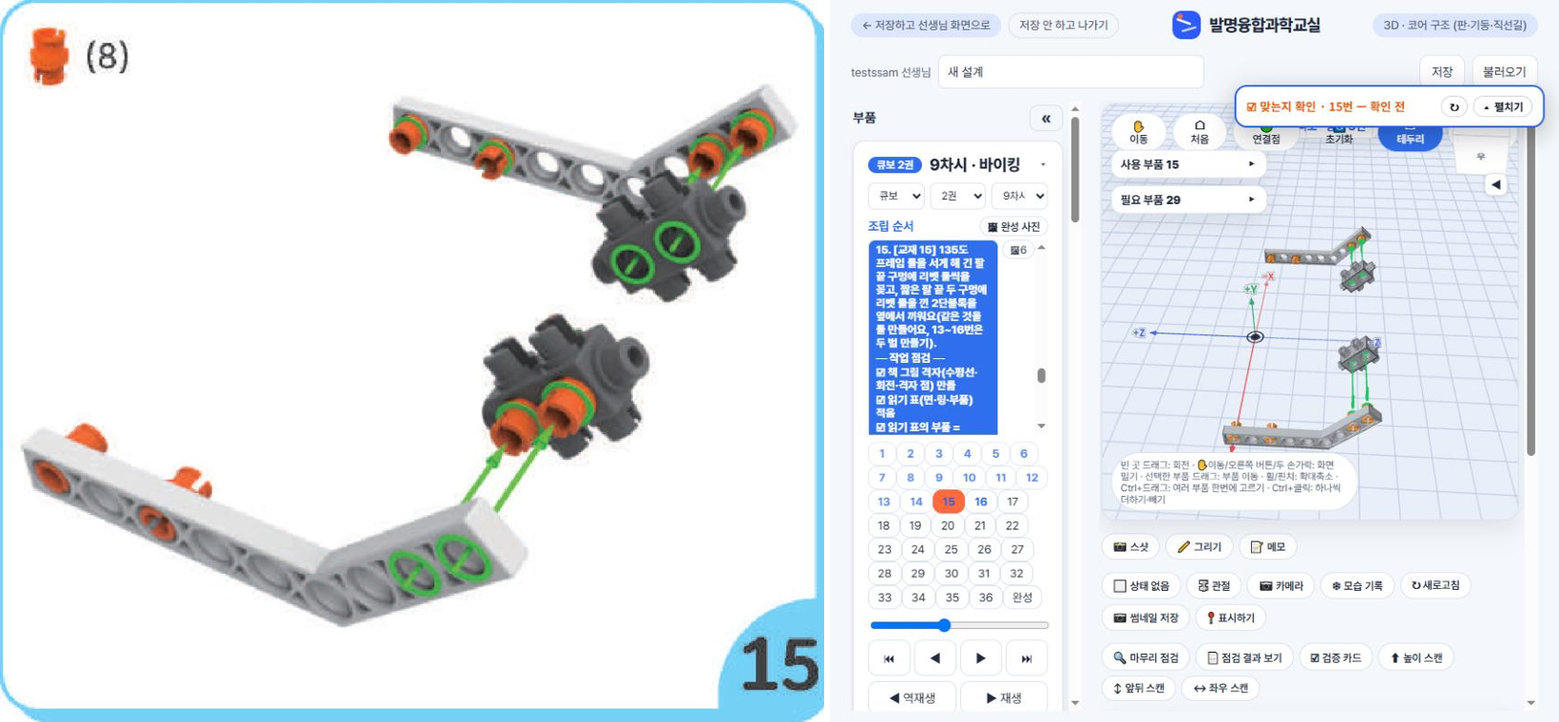
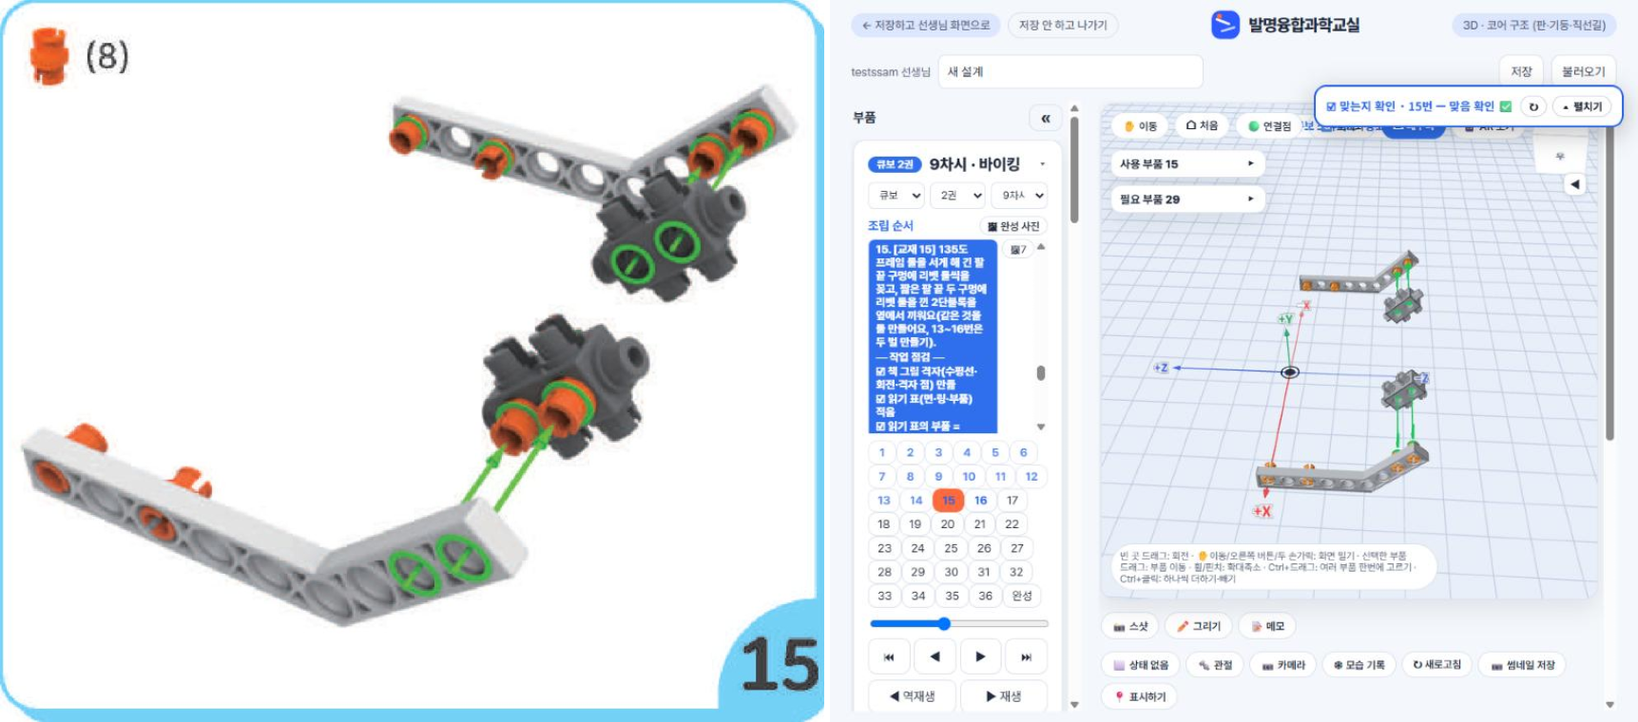
바이킹 16번 화살표 수정·13~16번 둘째 벌 복사, 참고 그림 창 이동 기능
- viking 15번 팔 리벳에 moveGuide: 16번에서 화살표 0개 → 4개(책과 같음)
- 13~16번 둘째 벌 copy_to_slot(창고 4, until 18)
- 15·16번 비교 증거 새로 기록, 진행기록 갱신
- design-assembly.js: 그림 창 제목 줄을 끌어 이동

diff --git a/public/design-warnings.js b/public/design-warnings.js
@@ -1,2 +1,2 @@
 // 자동 생성 — scripts/assembly-tools/insertion_check.js (직접 고치지 않는다)
-window.IVS_ASM_WARNINGS = {"cubo-1-airplane":{"3":[{"key":"3.1|작은기어|315프레임(1.0),90도 프레임(1.3)","part":"작은기어","text":"작은기어(3.1)이(가) 315프레임(1.0), 90도 프레임(1.3) 와 겹쳐 있어요"},{"key":"3.3|부시|315프레임(1.0),90도 프레임(1.3)","part":"부시","text":"부시(3.3)이(가) 315프레임(1.0), 90도 프레임(1.3) 와 겹쳐 있어요"}],"5":[{"key":"5.1|부시|90도 프레임(4.3)","part":"부시","text":"부시(5.1)이(가) 90도 프레임(4.3) 와 겹쳐 있어요"}]},"cubo-1-autogun":{},"cubo-2-autotarget":{"8":[{"key":"8.0|3단블록|작은기어(6.1),부시(6.2)","part":"3단블록","text":"3단블록(8.0)이(가) 작은기어(6.1), 부시(6.2) 와 겹쳐 있어요"},{"key":"8.1|3단블록|작은기어(6.1),부시(6.2)","part":"3단블록","text":"3단블록(8.1)이(가) 작은기어(6.1), 부시(6.2) 와 겹쳐 있어요"},{"key":"8.2|17프레임|작은기어(6.1),부시(6.2)","part":"17프레임","text":"17프레임(8.2)이(가) 작은기어(6.1), 부시(6.2) 와 겹쳐 있어요"}],"52":[{"key":"52.2|37프레임|15프레임(8.3)","part":"37프레임","text":"37프레임(52.2)이(가) 15프레임(8.3) 와 겹쳐 있어요"}]},"cubo-2-avoider":{},"cubo-2-battlerobot":{"30":[{"key":"30.8|515프레임|59프레임(27.2)","part":"515프레임","text":"515프레임(30.8)이(가) 59프레임(27.2) 와 겹쳐 있어요"}],"31":[{"key":"31.6|515프레임|59프레임(27.2)","part":"515프레임","text":"515프레임(31.6)이(가) 59프레임(27.2) 와 겹쳐 있어요"}],"33":[{"key":"33.0|17프레임|59프레임(27.2)","part":"17프레임","text":"17프레임(33.0)이(가) 59프레임(27.2) 와 겹쳐 있어요"},{"key":"33.1|17프레임|59프레임(27.2)","part":"17프레임","text":"17프레임(33.1)이(가) 59프레임(27.2) 와 겹쳐 있어요"},{"key":"33.6|39프레임|59프레임(27.2)","part":"39프레임","text":"39프레임(33.6)이(가) 59프레임(27.2) 와 겹쳐 있어요"}],"34":[{"key":"34.4|713프레임|515프레임(30.8)","part":"713프레임","text":"713프레임(34.4)이(가) 515프레임(30.8) 와 겹쳐 있어요"}]},"cubo-1-battlerobot":{},"cubo-2-catapult":{"2":[{"key":"2.0|713프레임|27프레임(1.0),27프레임(1.1)","part":"713프레임","text":"713프레임(2.0)이(가) 27프레임(1.0), 27프레임(1.1) 와 겹쳐 있어요"}],"4":[{"key":"4.3|부시|27프레임(1.0),3단블록(1.2)","part":"부시","text":"부시(4.3)이(가) 27프레임(1.0), 3단블록(1.2) 와 겹쳐 있어요"},{"key":"4.5|부시|27프레임(1.1),3단블록(1.5)","part":"부시","text":"부시(4.5)이(가) 27프레임(1.1), 3단블록(1.5) 와 겹쳐 있어요"}],"5":[{"key":"5.2|17프레임|3단블록(1.2),3단블록(1.5)","part":"17프레임","text":"17프레임(5.2)이(가) 3단블록(1.2), 3단블록(1.5) 와 겹쳐 있어요"}],"6":[{"key":"6.0|27프레임|부시(4.3)","part":"27프레임","text":"27프레임(6.0)이(가) 부시(4.3) 와 겹쳐 있어요"},{"key":"6.1|27프레임|부시(4.5)","part":"27프레임","text":"27프레임(6.1)이(가) 부시(4.5) 와 겹쳐 있어요"}],"19":[{"key":"19.0|215프레임|37프레임(16.0)","part":"215프레임","text":"215프레임(19.0)이(가) 37프레임(16.0) 와 겹쳐 있어요"},{"key":"19.3|215프레임|59프레임(16.5)","part":"215프레임","text":"215프레임(19.3)이(가) 59프레임(16.5) 와 겹쳐 있어요"}],"28":[{"key":"28.3|큰기어|3단블록(23.0),3단블록(23.1),3단블록(23.2)","part":"큰기어","text":"큰기어(28.3)이(가) 3단블록(23.0), 3단블록(23.1), 3단블록(23.2) 와 겹쳐 있어요"}]},"cubo-1-dog":{"4":[{"key":"4.3|3단블록|부시(3.0)","part":"3단블록","text":"3단블록(4.3)이(가) 부시(3.0) 와 겹쳐 있어요"}],"8":[{"key":"8.3|3단블록|부시(7.0)","part":"3단블록","text":"3단블록(8.3)이(가) 부시(7.0) 와 겹쳐 있어요"}],"31":[{"key":"31.1|3단블록|부시(30.0)","part":"3단블록","text":"3단블록(31.1)이(가) 부시(30.0) 와 겹쳐 있어요"}],"34":[{"key":"34.1|19프레임|19프레임(28.1)","part":"19프레임","text":"19프레임(34.1)이(가) 19프레임(28.1) 와 겹쳐 있어요"}],"37":[{"key":"37.1|3단블록|부시(36.0)","part":"3단블록","text":"3단블록(37.1)이(가) 부시(36.0) 와 겹쳐 있어요"}]},"cubo-2-dropchecker":{"31":[{"key":"31.0|37프레임|713프레임(15.0)","part":"37프레임","text":"37프레임(31.0)이(가) 713프레임(15.0) 와 겹쳐 있어요"}]},"cubo-1-formula1":{"12":[{"key":"12.0|29프레임|부시(9.1),부시(10.1)","part":"29프레임","text":"29프레임(12.0)이(가) 부시(9.1), 부시(10.1) 와 겹쳐 있어요"}]},"cubo-1-kidknight":{"22":[{"key":"22.0|17프레임|부시(21.1)","part":"17프레임","text":"17프레임(22.0)이(가) 부시(21.1) 와 겹쳐 있어요"}],"27":[{"key":"27.0|17프레임|부시(26.1)","part":"17프레임","text":"17프레임(27.0)이(가) 부시(26.1) 와 겹쳐 있어요"}],"30":[{"key":"30.0|115프레임|반원프레임(30.1)","part":"115프레임","text":"115프레임(30.0)이(가) 반원프레임(30.1) 와 겹쳐 있어요"},{"key":"30.1|반원프레임|115프레임(30.0)","part":"반원프레임","text":"반원프레임(30.1)이(가) 115프레임(30.0) 와 겹쳐 있어요"}],"33":[{"key":"33.0|59프레임|15프레임(20.3),115프레임(30.0),반원프레임(30.1)","part":"59프레임","text":"59프레임(33.0)이(가) 15프레임(20.3), 115프레임(30.0), 반원프레임(30.1) 와 겹쳐 있어요"},{"key":"33.3|15프레임|3단블록(30.2)","part":"15프레임","text":"15프레임(33.3)이(가) 3단블록(30.2) 와 겹쳐 있어요"}]},"cubo-2-mantis":{},"cubo-1-rollingbot":{"19":[{"key":"19.2|37프레임|29프레임(14.4)","part":"37프레임","text":"37프레임(19.2)이(가) 29프레임(14.4) 와 겹쳐 있어요"}]},"cubo-1-soccer":{"10":[{"key":"10.0|39프레임|부시(7.0),부시(8.0)","part":"39프레임","text":"39프레임(10.0)이(가) 부시(7.0), 부시(8.0) 와 겹쳐 있어요"}]},"cubo-2-speedbike":{"20":[{"key":"20.0|315프레임|39프레임(17.0)","part":"315프레임","text":"315프레임(20.0)이(가) 39프레임(17.0) 와 겹쳐 있어요"},{"key":"20.1|2단블록|3단블록(17.1)","part":"2단블록","text":"2단블록(20.1)이(가) 3단블록(17.1) 와 겹쳐 있어요"}],"25":[{"key":"25.0|115프레임|39프레임(17.0),3단블록(17.2),315프레임(20.0)","part":"115프레임","text":"115프레임(25.0)이(가) 39프레임(17.0), 3단블록(17.2), 315프레임(20.0) 와 겹쳐 있어요"},{"key":"25.1|115프레임|39프레임(17.0),3단블록(17.1),315프레임(20.0),2단블록(20.1)","part":"115프레임","text":"115프레임(25.1)이(가) 39프레임(17.0), 3단블록(17.1), 315프레임(20.0), 2단블록(20.1) 와 겹쳐 있어요"}],"27":[{"key":"27.0|27프레임|27프레임(14.0)","part":"27프레임","text":"27프레임(27.0)이(가) 27프레임(14.0) 와 겹쳐 있어요"},{"key":"27.3|2열브라켓|2단블록(14.3)","part":"2열브라켓","text":"2열브라켓(27.3)이(가) 2단블록(14.3) 와 겹쳐 있어요"},{"key":"27.6|27프레임|27프레임(14.1)","part":"27프레임","text":"27프레임(27.6)이(가) 27프레임(14.1) 와 겹쳐 있어요"},{"key":"27.9|2열브라켓|2단블록(14.5)","part":"2열브라켓","text":"2열브라켓(27.9)이(가) 2단블록(14.5) 와 겹쳐 있어요"}]},"cubo-1-trike":{"12":[{"key":"12.0|59프레임|37프레임(9.0)","part":"59프레임","text":"59프레임(12.0)이(가) 37프레임(9.0) 와 겹쳐 있어요"}]},"cubo-2-viking":{}};
+window.IVS_ASM_WARNINGS = {"cubo-1-airplane":{"3":[{"key":"3.1|작은기어|315프레임(1.0),90도 프레임(1.3)","part":"작은기어","text":"작은기어(3.1)이(가) 315프레임(1.0), 90도 프레임(1.3) 와 겹쳐 있어요"},{"key":"3.3|부시|315프레임(1.0),90도 프레임(1.3)","part":"부시","text":"부시(3.3)이(가) 315프레임(1.0), 90도 프레임(1.3) 와 겹쳐 있어요"}],"5":[{"key":"5.1|부시|90도 프레임(4.3)","part":"부시","text":"부시(5.1)이(가) 90도 프레임(4.3) 와 겹쳐 있어요"}]},"cubo-1-autogun":{},"cubo-2-autotarget":{"8":[{"key":"8.0|3단블록|작은기어(6.1),부시(6.2)","part":"3단블록","text":"3단블록(8.0)이(가) 작은기어(6.1), 부시(6.2) 와 겹쳐 있어요"},{"key":"8.1|3단블록|작은기어(6.1),부시(6.2)","part":"3단블록","text":"3단블록(8.1)이(가) 작은기어(6.1), 부시(6.2) 와 겹쳐 있어요"},{"key":"8.2|17프레임|작은기어(6.1),부시(6.2)","part":"17프레임","text":"17프레임(8.2)이(가) 작은기어(6.1), 부시(6.2) 와 겹쳐 있어요"}],"52":[{"key":"52.2|37프레임|15프레임(8.3)","part":"37프레임","text":"37프레임(52.2)이(가) 15프레임(8.3) 와 겹쳐 있어요"}]},"cubo-2-avoider":{},"cubo-2-battlerobot":{"30":[{"key":"30.8|515프레임|59프레임(27.2)","part":"515프레임","text":"515프레임(30.8)이(가) 59프레임(27.2) 와 겹쳐 있어요"}],"31":[{"key":"31.6|515프레임|59프레임(27.2)","part":"515프레임","text":"515프레임(31.6)이(가) 59프레임(27.2) 와 겹쳐 있어요"}],"33":[{"key":"33.0|17프레임|59프레임(27.2)","part":"17프레임","text":"17프레임(33.0)이(가) 59프레임(27.2) 와 겹쳐 있어요"},{"key":"33.1|17프레임|59프레임(27.2)","part":"17프레임","text":"17프레임(33.1)이(가) 59프레임(27.2) 와 겹쳐 있어요"},{"key":"33.6|39프레임|59프레임(27.2)","part":"39프레임","text":"39프레임(33.6)이(가) 59프레임(27.2) 와 겹쳐 있어요"}],"34":[{"key":"34.4|713프레임|515프레임(30.8)","part":"713프레임","text":"713프레임(34.4)이(가) 515프레임(30.8) 와 겹쳐 있어요"}]},"cubo-1-battlerobot":{},"cubo-2-catapult":{"2":[{"key":"2.0|713프레임|27프레임(1.0),27프레임(1.1)","part":"713프레임","text":"713프레임(2.0)이(가) 27프레임(1.0), 27프레임(1.1) 와 겹쳐 있어요"}],"4":[{"key":"4.3|부시|27프레임(1.0),3단블록(1.2)","part":"부시","text":"부시(4.3)이(가) 27프레임(1.0), 3단블록(1.2) 와 겹쳐 있어요"},{"key":"4.5|부시|27프레임(1.1),3단블록(1.5)","part":"부시","text":"부시(4.5)이(가) 27프레임(1.1), 3단블록(1.5) 와 겹쳐 있어요"}],"5":[{"key":"5.2|17프레임|3단블록(1.2),3단블록(1.5)","part":"17프레임","text":"17프레임(5.2)이(가) 3단블록(1.2), 3단블록(1.5) 와 겹쳐 있어요"}],"6":[{"key":"6.0|27프레임|부시(4.3)","part":"27프레임","text":"27프레임(6.0)이(가) 부시(4.3) 와 겹쳐 있어요"},{"key":"6.1|27프레임|부시(4.5)","part":"27프레임","text":"27프레임(6.1)이(가) 부시(4.5) 와 겹쳐 있어요"}],"19":[{"key":"19.0|215프레임|37프레임(16.0)","part":"215프레임","text":"215프레임(19.0)이(가) 37프레임(16.0) 와 겹쳐 있어요"},{"key":"19.3|215프레임|59프레임(16.5)","part":"215프레임","text":"215프레임(19.3)이(가) 59프레임(16.5) 와 겹쳐 있어요"}],"28":[{"key":"28.3|큰기어|3단블록(23.0),3단블록(23.1),3단블록(23.2)","part":"큰기어","text":"큰기어(28.3)이(가) 3단블록(23.0), 3단블록(23.1), 3단블록(23.2) 와 겹쳐 있어요"}]},"cubo-1-dog":{"4":[{"key":"4.3|3단블록|부시(3.0)","part":"3단블록","text":"3단블록(4.3)이(가) 부시(3.0) 와 겹쳐 있어요"}],"8":[{"key":"8.3|3단블록|부시(7.0)","part":"3단블록","text":"3단블록(8.3)이(가) 부시(7.0) 와 겹쳐 있어요"}],"31":[{"key":"31.1|3단블록|부시(30.0)","part":"3단블록","text":"3단블록(31.1)이(가) 부시(30.0) 와 겹쳐 있어요"}],"34":[{"key":"34.1|19프레임|19프레임(28.1)","part":"19프레임","text":"19프레임(34.1)이(가) 19프레임(28.1) 와 겹쳐 있어요"}],"37":[{"key":"37.1|3단블록|부시(36.0)","part":"3단블록","text":"3단블록(37.1)이(가) 부시(36.0) 와 겹쳐 있어요"}]},"cubo-2-dropchecker":{"31":[{"key":"31.0|37프레임|713프레임(15.0)","part":"37프레임","text":"37프레임(31.0)이(가) 713프레임(15.0) 와 겹쳐 있어요"}]},"cubo-1-formula1":{"12":[{"key":"12.0|29프레임|부시(9.1),부시(10.1)","part":"29프레임","text":"29프레임(12.0)이(가) 부시(9.1), 부시(10.1) 와 겹쳐 있어요"}]},"cubo-1-kidknight":{"22":[{"key":"22.0|17프레임|부시(21.1)","part":"17프레임","text":"17프레임(22.0)이(가) 부시(21.1) 와 겹쳐 있어요"}],"27":[{"key":"27.0|17프레임|부시(26.1)","part":"17프레임","text":"17프레임(27.0)이(가) 부시(26.1) 와 겹쳐 있어요"}],"30":[{"key":"30.0|115프레임|반원프레임(30.1)","part":"115프레임","text":"115프레임(30.0)이(가) 반원프레임(30.1) 와 겹쳐 있어요"},{"key":"30.1|반원프레임|115프레임(30.0)","part":"반원프레임","text":"반원프레임(30.1)이(가) 115프레임(30.0) 와 겹쳐 있어요"}],"33":[{"key":"33.0|59프레임|15프레임(20.3),115프레임(30.0),반원프레임(30.1)","part":"59프레임","text":"59프레임(33.0)이(가) 15프레임(20.3), 115프레임(30.0), 반원프레임(30.1) 와 겹쳐 있어요"},{"key":"33.3|15프레임|3단블록(30.2)","part":"15프레임","text":"15프레임(33.3)이(가) 3단블록(30.2) 와 겹쳐 있어요"}]},"cubo-2-mantis":{},"cubo-1-rollingbot":{"19":[{"key":"19.2|37프레임|29프레임(14.4)","part":"37프레임","text":"37프레임(19.2)이(가) 29프레임(14.4) 와 겹쳐 있어요"}]},"cubo-2-speedbike":{"20":[{"key":"20.0|315프레임|39프레임(17.0)","part":"315프레임","text":"315프레임(20.0)이(가) 39프레임(17.0) 와 겹쳐 있어요"},{"key":"20.1|2단블록|3단블록(17.1)","part":"2단블록","text":"2단블록(20.1)이(가) 3단블록(17.1) 와 겹쳐 있어요"}],"25":[{"key":"25.0|115프레임|39프레임(17.0),3단블록(17.2),315프레임(20.0)","part":"115프레임","text":"115프레임(25.0)이(가) 39프레임(17.0), 3단블록(17.2), 315프레임(20.0) 와 겹쳐 있어요"},{"key":"25.1|115프레임|39프레임(17.0),3단블록(17.1),315프레임(20.0),2단블록(20.1)","part":"115프레임","text":"115프레임(25.1)이(가) 39프레임(17.0), 3단블록(17.1), 315프레임(20.0), 2단블록(20.1) 와 겹쳐 있어요"}],"27":[{"key":"27.0|27프레임|27프레임(14.0)","part":"27프레임","text":"27프레임(27.0)이(가) 27프레임(14.0) 와 겹쳐 있어요"},{"key":"27.3|2열브라켓|2단블록(14.3)","part":"2열브라켓","text":"2열브라켓(27.3)이(가) 2단블록(14.3) 와 겹쳐 있어요"},{"key":"27.6|27프레임|27프레임(14.1)","part":"27프레임","text":"27프레임(27.6)이(가) 27프레임(14.1) 와 겹쳐 있어요"},{"key":"27.9|2열브라켓|2단블록(14.5)","part":"2열브라켓","text":"2열브라켓(27.9)이(가) 2단블록(14.5) 와 겹쳐 있어요"}]},"cubo-2-viking":{}};

diff --git a/public/design-assemblies.js b/public/design-assemblies.js
@@ -3691,19 +3691,37 @@ window.IVS_ASSEMBLIES = [
         ] },
         { note: "[교재 15] 135도 프레임 둘을 서게 해 긴 팔 끝 구멍에 리벳 둘씩을 꽂고, 짧은 팔 끝 두 구멍에 리벳 둘을 낀 2단블록을 옆에서 끼워요(같은 것을 둘 만들어요, 13~16번은 두 벌 만들기).\n━ 작업 점검 ━\n☑ 책 그림 격자(수평선·회전·격자 점) 만듦\n☑ 읽기 표(면·링·부품) 적음\n☑ 읽기 표의 부품 = 모델의 부품 (135도 프레임 2, 리벳 8, 2단블록 2)\n☑ 카메라 방향 파악(가까운 쪽·화면 오른쪽·위가 로봇의 어느 쪽인지 읽기 표 '방향') (눈으로)\n☑ 쓴 부품 합계 ≤ 교재 LIST\n☑ 부품 방향·제자리 판정(읽기 표 '부품방향')\n☑ 앞·뒤 번호 그림·완성 사진(00)과 같이 읽음(읽기 표 '대조')\n☑ 화면 확대 확인 (비교 증거 있음)\n☑ 책 그림과 나란히 비교(칸 수 대조) (비교 증거 있음)\n☑ 카메라 책과 대조 (비교 증거 있음)\n☑ 카메라가 짐작(guess)이 아님 — 책 그림에서 가까운 쪽·오른쪽·위를 읽고 정한 값(camSrc eye) (비교 증거 있음)\n▣ 사용 부품: 135도 프레임 2, 2단블록 2, 리벳 8 (2벌)", cam: {"theta": 1.63, "phi": 0.87}, camSrc: "eye", slot: 3, hideMade: {"1": "1~12번(창고 1·2)", "2": "1~12번(창고 1·2)", "3": "1~12번(창고 1·2)", "4": "1~12번(창고 1·2)", "5": "1~12번(창고 1·2)", "6": "1~12번(창고 1·2)", "7": "1~12번(창고 1·2)", "8": "1~12번(창고 1·2)", "9": "1~12번(창고 1·2)", "10": "1~12번(창고 1·2)", "11": "1~12번(창고 1·2)", "12": "1~12번(창고 1·2)", "13": "13~14번 상자(창고 3)", "14": "13~14번 상자(창고 3)"}, parts: [
           { n: "135도 프레임", p: [88.8, 21.5, -38.2], r: [90.0, -90.0, 0.0] },
-          { n: "리벳", p: [86.3, 10.0, -1.7], r: [0.0, 0.0, -90.0], seated: true, noGuide: true, openEnd: true },
-          { n: "리벳", p: [86.3, 10.0, -21.7], r: [0.0, 0.0, -90.0], seated: true, noGuide: true, openEnd: true },
+          { n: "리벳", p: [86.3, 10.0, -1.7], r: [0.0, 0.0, -90.0], seated: true, noGuide: true, openEnd: true, moveGuide: true },
+          { n: "리벳", p: [86.3, 10.0, -21.7], r: [0.0, 0.0, -90.0], seated: true, noGuide: true, openEnd: true, moveGuide: true },
           { n: "리벳", p: [86.3, 31.0, -72.7], r: [0.0, 0.0, -90.0] },
           { n: "리벳", p: [86.3, 24.0, -65.7], r: [0.0, 0.0, -90.0] },
           { n: "2단블록", p: [80.3, 27.464, -69.164], r: [180.0, -45.0, -90.0], recv: true, dir: [-1.0, 0.0, 0.0], marks: [[81.8, 31.0, -72.7], [81.8, 24.0, -65.7]], hover: 40 },
           { n: "135도 프레임", p: [-86.2, 21.5, -38.2], r: [90.0, -90.0, 0.0] },
-          { n: "리벳", p: [-83.7, 10.0, -1.7], r: [0.0, 0.0, -90.0], seated: true, noGuide: true, openEnd: true },
-          { n: "리벳", p: [-83.7, 10.0, -21.7], r: [0.0, 0.0, -90.0], seated: true, noGuide: true, openEnd: true },
+          { n: "리벳", p: [-83.7, 10.0, -1.7], r: [0.0, 0.0, -90.0], seated: true, noGuide: true, openEnd: true, moveGuide: true },
+          { n: "리벳", p: [-83.7, 10.0, -21.7], r: [0.0, 0.0, -90.0], seated: true, noGuide: true, openEnd: true, moveGuide: true },
           { n: "리벳", p: [-83.7, 31.0, -72.7], r: [0.0, 0.0, -90.0] },
           { n: "리벳", p: [-83.7, 24.0, -65.7], r: [0.0, 0.0, -90.0] },
           { n: "2단블록", p: [-77.7, 27.464, -69.164], r: [0.0, -45.0, -90.0], recv: true, dir: [1.0, 0.0, 0.0], marks: [[-79.2, 31.0, -72.7], [-79.2, 24.0, -65.7]], hover: 40 },
         ] },
-        { note: "[교재 16] 14번 상자 양 끝 블록 옆 구멍(칸1 블록·칸5 블록의 h1·h3)에 15번 팔 둘의 긴 팔 끝 리벳이 옆으로 들어가게 팔을 붙여요(13~16번은 두 벌 만들기).\n━ 작업 점검 ━\n☑ 책 그림 격자(수평선·회전·격자 점) 만듦\n☑ 읽기 표(면·링·부품) 적음\n☑ 읽기 표의 부품 = 모델의 부품 ()\n☑ 카메라 방향 파악(가까운 쪽·화면 오른쪽·위가 로봇의 어느 쪽인지 읽기 표 '방향') (눈으로)\n☑ 쓴 부품 합계 ≤ 교재 LIST\n☑ 부품 방향·제자리 판정(읽기 표 '부품방향')\n☑ 앞·뒤 번호 그림·완성 사진(00)과 같이 읽음(읽기 표 '대조')\n☑ 화면 확대 확인 (비교 증거 있음) (눈으로)\n☑ 책 그림과 나란히 비교(칸 수 대조) (비교 증거 있음) (눈으로)\n☑ 카메라 책과 대조 (비교 증거 있음) (눈으로)\n☑ 카메라가 짐작(guess)이 아님 — 책 그림에서 가까운 쪽·오른쪽·위를 읽고 정한 값(camSrc eye) (비교 증거 있음) (눈으로)\n▣ 사용 부품: 없음(합치는 단계) (2벌)", cam: {"theta": 2.066, "phi": 0.913}, camSrc: "eye", slot: 3, hideMade: {"1": "1~12번(창고 1·2)", "2": "1~12번(창고 1·2)", "3": "1~12번(창고 1·2)", "4": "1~12번(창고 1·2)", "5": "1~12번(창고 1·2)", "6": "1~12번(창고 1·2)", "7": "1~12번(창고 1·2)", "8": "1~12번(창고 1·2)", "9": "1~12번(창고 1·2)", "10": "1~12번(창고 1·2)", "11": "1~12번(창고 1·2)", "12": "1~12번(창고 1·2)"}, moveMade: {"15:0": {"p": [28.8, 21.5, -38.2], "r": [90.0, -90.0, 0.0], "dir": [1.0, 0.0, 0.0], "hover": 30, "moveGroup": "mm16arm1"}, "15:1": {"p": [26.3, 10.0, -1.7], "r": [0.0, 0.0, -90.0], "dir": [1.0, 0.0, 0.0], "hover": 30, "moveGroup": "mm16arm1", "marks": [[26.3, 10.0, -1.6999999999999993]]}, "15:2": {"p": [26.3, 10.0, -21.7], "r": [0.0, 0.0, -90.0], "dir": [1.0, 0.0, 0.0], "hover": 30, "moveGroup": "mm16arm1", "marks": [[26.3, 10.0, -21.7]]}, "15:3": {"p": [26.3, 31.0, -72.7], "r": [0.0, 0.0, -90.0], "dir": [1.0, 0.0, 0.0], "hover": 30, "moveGroup": "mm16arm1"}, "15:4": {"p": [26.3, 24.0, -65.7], "r": [0.0, 0.0, -90.0], "dir": [1.0, 0.0, 0.0], "hover": 30, "moveGroup": "mm16arm1"}, "15:5": {"p": [20.3, 27.464, -69.164], "r": [180.0, -45.0, -90.0], "dir": [1.0, 0.0, 0.0], "hover": 30, "moveGroup": "mm16arm1"}, "15:6": {"p": [-26.2, 21.5, -38.2], "r": [90.0, -90.0, 0.0], "dir": [-1.0, 0.0, 0.0], "hover": 30, "moveGroup": "mm16arm-1"}, "15:7": {"p": [-23.7, 10.0, -1.7], "r": [0.0, 0.0, -90.0], "dir": [-1.0, 0.0, 0.0], "hover": 30, "moveGroup": "mm16arm-1", "marks": [[-23.7, 10.0, -1.6999999999999993]]}, "15:8": {"p": [-23.7, 10.0, -21.7], "r": [0.0, 0.0, -90.0], "dir": [-1.0, 0.0, 0.0], "hover": 30, "moveGroup": "mm16arm-1", "marks": [[-23.7, 10.0, -21.7]]}, "15:9": {"p": [-23.7, 31.0, -72.7], "r": [0.0, 0.0, -90.0], "dir": [-1.0, 0.0, 0.0], "hover": 30, "moveGroup": "mm16arm-1"}, "15:10": {"p": [-23.7, 24.0, -65.7], "r": [0.0, 0.0, -90.0], "dir": [-1.0, 0.0, 0.0], "hover": 30, "moveGroup": "mm16arm-1"}, "15:11": {"p": [-17.7, 27.464, -69.164], "r": [0.0, -45.0, -90.0], "dir": [-1.0, 0.0, 0.0], "hover": 30, "moveGroup": "mm16arm-1"}}, parts: [
+        { note: "[교재 16] 14번 상자 양 끝 블록 옆 구멍(칸1 블록·칸5 블록의 h1·h3)에 15번 팔 둘의 긴 팔 끝 리벳이 옆으로 들어가게 팔을 붙여요(13~16번은 두 벌 만들기).\n━ 작업 점검 ━\n☑ 책 그림 격자(수평선·회전·격자 점) 만듦\n☑ 읽기 표(면·링·부품) 적음\n☑ 읽기 표의 부품 = 모델의 부품 ()\n☑ 카메라 방향 파악(가까운 쪽·화면 오른쪽·위가 로봇의 어느 쪽인지 읽기 표 '방향') (눈으로)\n☑ 쓴 부품 합계 ≤ 교재 LIST\n☑ 부품 방향·제자리 판정(읽기 표 '부품방향')\n☑ 앞·뒤 번호 그림·완성 사진(00)과 같이 읽음(읽기 표 '대조')\n☐ 화면 확대 확인 (눈으로)\n☐ 책 그림과 나란히 비교(칸 수 대조) (눈으로)\n☐ 카메라 책과 대조 (눈으로)\n☐ 카메라가 짐작(guess)이 아님 — 책 그림에서 가까운 쪽·오른쪽·위를 읽고 정한 값(camSrc eye) (눈으로)\n▣ 사용 부품: 없음(합치는 단계) (2벌)", cam: {"theta": 2.066, "phi": 0.913}, camSrc: "eye", slot: 3, hideMade: {"1": "1~12번(창고 1·2)", "2": "1~12번(창고 1·2)", "3": "1~12번(창고 1·2)", "4": "1~12번(창고 1·2)", "5": "1~12번(창고 1·2)", "6": "1~12번(창고 1·2)", "7": "1~12번(창고 1·2)", "8": "1~12번(창고 1·2)", "9": "1~12번(창고 1·2)", "10": "1~12번(창고 1·2)", "11": "1~12번(창고 1·2)", "12": "1~12번(창고 1·2)"}, moveMade: {"15:0": {"p": [28.8, 21.5, -38.2], "r": [90.0, -90.0, 0.0], "dir": [1.0, 0.0, 0.0], "hover": 30, "moveGroup": "mm16arm1"}, "15:1": {"p": [26.3, 10.0, -1.7], "r": [0.0, 0.0, -90.0], "dir": [1.0, 0.0, 0.0], "hover": 30, "moveGroup": "mm16arm1", "marks": [[26.3, 10.0, -1.6999999999999993]]}, "15:2": {"p": [26.3, 10.0, -21.7], "r": [0.0, 0.0, -90.0], "dir": [1.0, 0.0, 0.0], "hover": 30, "moveGroup": "mm16arm1", "marks": [[26.3, 10.0, -21.7]]}, "15:3": {"p": [26.3, 31.0, -72.7], "r": [0.0, 0.0, -90.0], "dir": [1.0, 0.0, 0.0], "hover": 30, "moveGroup": "mm16arm1"}, "15:4": {"p": [26.3, 24.0, -65.7], "r": [0.0, 0.0, -90.0], "dir": [1.0, 0.0, 0.0], "hover": 30, "moveGroup": "mm16arm1"}, "15:5": {"p": [20.3, 27.464, -69.164], "r": [180.0, -45.0, -90.0], "dir": [1.0, 0.0, 0.0], "hover": 30, "moveGroup": "mm16arm1"}, "15:6": {"p": [-26.2, 21.5, -38.2], "r": [90.0, -90.0, 0.0], "dir": [-1.0, 0.0, 0.0], "hover": 30, "moveGroup": "mm16arm-1"}, "15:7": {"p": [-23.7, 10.0, -1.7], "r": [0.0, 0.0, -90.0], "dir": [-1.0, 0.0, 0.0], "hover": 30, "moveGroup": "mm16arm-1", "marks": [[-23.7, 10.0, -1.6999999999999993]]}, "15:8": {"p": [-23.7, 10.0, -21.7], "r": [0.0, 0.0, -90.0], "dir": [-1.0, 0.0, 0.0], "hover": 30, "moveGroup": "mm16arm-1", "marks": [[-23.7, 10.0, -21.7]]}, "15:9": {"p": [-23.7, 31.0, -72.7], "r": [0.0, 0.0, -90.0], "dir": [-1.0, 0.0, 0.0], "hover": 30, "moveGroup": "mm16arm-1"}, "15:10": {"p": [-23.7, 24.0, -65.7], "r": [0.0, 0.0, -90.0], "dir": [-1.0, 0.0, 0.0], "hover": 30, "moveGroup": "mm16arm-1"}, "15:11": {"p": [-17.7, 27.464, -69.164], "r": [0.0, -45.0, -90.0], "dir": [-1.0, 0.0, 0.0], "hover": 30, "moveGroup": "mm16arm-1"}}, parts: [
+          { n: "25프레임", p: [1.3, 2.5, 293.3], r: [0.0, 0.0, 0.0], hideAt: [16, 17], store: "13~16번 둘째 벌", slot: 4, noGuide: true, copyOf: "13:0" },
+          { n: "15프레임", p: [1.3, 2.5, 278.3], r: [0.0, 0.0, 0.0], hideAt: [16, 17], store: "13~16번 둘째 벌", slot: 4, noGuide: true, copyOf: "13:1" },
+          { n: "3단블록", p: [-18.7, 10.0, 288.3], r: [-90.0, -90.0, 0.0], hideAt: [16, 17], store: "13~16번 둘째 벌", slot: 4, noGuide: true, copyOf: "13:2" },
+          { n: "3단블록", p: [21.3, 10.0, 288.3], r: [-90.0, -90.0, 0.0], hideAt: [16, 17], store: "13~16번 둘째 벌", slot: 4, noGuide: true, copyOf: "13:3" },
+          { n: "25프레임", p: [1.3, 17.5, 293.3], r: [0.0, 0.0, 0.0], hideAt: [16, 17], store: "13~16번 둘째 벌", slot: 4, noGuide: true, copyOf: "14:0" },
+          { n: "15프레임", p: [1.3, 17.5, 278.3], r: [0.0, 0.0, 0.0], hideAt: [16, 17], store: "13~16번 둘째 벌", slot: 4, noGuide: true, copyOf: "14:1" },
+          { n: "135도 프레임", p: [28.8, 21.5, 261.8], r: [90.0, -90.0, 0.0], hideAt: [16, 17], store: "13~16번 둘째 벌", slot: 4, noGuide: true, copyOf: "15:0" },
+          { n: "리벳", p: [26.3, 10.0, 298.3], r: [0.0, 0.0, -90.0], hideAt: [16, 17], store: "13~16번 둘째 벌", slot: 4, noGuide: true, copyOf: "15:1" },
+          { n: "리벳", p: [26.3, 10.0, 278.3], r: [0.0, 0.0, -90.0], hideAt: [16, 17], store: "13~16번 둘째 벌", slot: 4, noGuide: true, copyOf: "15:2" },
+          { n: "리벳", p: [26.3, 31.0, 227.3], r: [0.0, 0.0, -90.0], hideAt: [16, 17], store: "13~16번 둘째 벌", slot: 4, noGuide: true, copyOf: "15:3" },
+          { n: "리벳", p: [26.3, 24.0, 234.3], r: [0.0, 0.0, -90.0], hideAt: [16, 17], store: "13~16번 둘째 벌", slot: 4, noGuide: true, copyOf: "15:4" },
+          { n: "2단블록", p: [20.3, 27.464, 230.836], r: [180.0, -45.0, -90.0], hideAt: [16, 17], store: "13~16번 둘째 벌", slot: 4, noGuide: true, copyOf: "15:5" },
+          { n: "135도 프레임", p: [-26.2, 21.5, 261.8], r: [90.0, -90.0, 0.0], hideAt: [16, 17], store: "13~16번 둘째 벌", slot: 4, noGuide: true, copyOf: "15:6" },
+          { n: "리벳", p: [-23.7, 10.0, 298.3], r: [0.0, 0.0, -90.0], hideAt: [16, 17], store: "13~16번 둘째 벌", slot: 4, noGuide: true, copyOf: "15:7" },
+          { n: "리벳", p: [-23.7, 10.0, 278.3], r: [0.0, 0.0, -90.0], hideAt: [16, 17], store: "13~16번 둘째 벌", slot: 4, noGuide: true, copyOf: "15:8" },
+          { n: "리벳", p: [-23.7, 31.0, 227.3], r: [0.0, 0.0, -90.0], hideAt: [16, 17], store: "13~16번 둘째 벌", slot: 4, noGuide: true, copyOf: "15:9" },
+          { n: "리벳", p: [-23.7, 24.0, 234.3], r: [0.0, 0.0, -90.0], hideAt: [16, 17], store: "13~16번 둘째 벌", slot: 4, noGuide: true, copyOf: "15:10" },
+          { n: "2단블록", p: [-17.7, 27.464, 230.836], r: [0.0, -45.0, -90.0], hideAt: [16, 17], store: "13~16번 둘째 벌", slot: 4, noGuide: true, copyOf: "15:11" },
         ] },
         { note: "[교재 17] (작성 전) 교재 84쪽 — 번호만 등록한 뼈대. 번호 작업 때 채운다.\n▣ 사용 부품: 없음(합치는 단계)", cam: {"theta": -0.79, "phi": 0.95}, camSrc: "guess", noPart: true, slot: 2, history: "창고 3의 팔(16번)을 가져와 창고 2의 바닥판(12번)과 합쳐요 — 번호표 '12 + 16'", parts: [
         ] },

diff --git a/scripts/assembly-tools/viking_entry.js b/scripts/assembly-tools/viking_entry.js
@@ -110,19 +110,37 @@
         ] },
         { note: "[교재 15] 135도 프레임 둘을 서게 해 긴 팔 끝 구멍에 리벳 둘씩을 꽂고, 짧은 팔 끝 두 구멍에 리벳 둘을 낀 2단블록을 옆에서 끼워요(같은 것을 둘 만들어요, 13~16번은 두 벌 만들기).\n━ 작업 점검 ━\n☑ 책 그림 격자(수평선·회전·격자 점) 만듦\n☑ 읽기 표(면·링·부품) 적음\n☑ 읽기 표의 부품 = 모델의 부품 (135도 프레임 2, 리벳 8, 2단블록 2)\n☑ 카메라 방향 파악(가까운 쪽·화면 오른쪽·위가 로봇의 어느 쪽인지 읽기 표 '방향') (눈으로)\n☑ 쓴 부품 합계 ≤ 교재 LIST\n☑ 부품 방향·제자리 판정(읽기 표 '부품방향')\n☑ 앞·뒤 번호 그림·완성 사진(00)과 같이 읽음(읽기 표 '대조')\n☑ 화면 확대 확인 (비교 증거 있음)\n☑ 책 그림과 나란히 비교(칸 수 대조) (비교 증거 있음)\n☑ 카메라 책과 대조 (비교 증거 있음)\n☑ 카메라가 짐작(guess)이 아님 — 책 그림에서 가까운 쪽·오른쪽·위를 읽고 정한 값(camSrc eye) (비교 증거 있음)\n▣ 사용 부품: 135도 프레임 2, 2단블록 2, 리벳 8 (2벌)", cam: {"theta": 1.63, "phi": 0.87}, camSrc: "eye", slot: 3, hideMade: {"1": "1~12번(창고 1·2)", "2": "1~12번(창고 1·2)", "3": "1~12번(창고 1·2)", "4": "1~12번(창고 1·2)", "5": "1~12번(창고 1·2)", "6": "1~12번(창고 1·2)", "7": "1~12번(창고 1·2)", "8": "1~12번(창고 1·2)", "9": "1~12번(창고 1·2)", "10": "1~12번(창고 1·2)", "11": "1~12번(창고 1·2)", "12": "1~12번(창고 1·2)", "13": "13~14번 상자(창고 3)", "14": "13~14번 상자(창고 3)"}, parts: [
           { n: "135도 프레임", p: [88.8, 21.5, -38.2], r: [90.0, -90.0, 0.0] },
-          { n: "리벳", p: [86.3, 10.0, -1.7], r: [0.0, 0.0, -90.0], seated: true, noGuide: true, openEnd: true },
-          { n: "리벳", p: [86.3, 10.0, -21.7], r: [0.0, 0.0, -90.0], seated: true, noGuide: true, openEnd: true },
+          { n: "리벳", p: [86.3, 10.0, -1.7], r: [0.0, 0.0, -90.0], seated: true, noGuide: true, openEnd: true, moveGuide: true },
+          { n: "리벳", p: [86.3, 10.0, -21.7], r: [0.0, 0.0, -90.0], seated: true, noGuide: true, openEnd: true, moveGuide: true },
           { n: "리벳", p: [86.3, 31.0, -72.7], r: [0.0, 0.0, -90.0] },
           { n: "리벳", p: [86.3, 24.0, -65.7], r: [0.0, 0.0, -90.0] },
           { n: "2단블록", p: [80.3, 27.464, -69.164], r: [180.0, -45.0, -90.0], recv: true, dir: [-1.0, 0.0, 0.0], marks: [[81.8, 31.0, -72.7], [81.8, 24.0, -65.7]], hover: 40 },
           { n: "135도 프레임", p: [-86.2, 21.5, -38.2], r: [90.0, -90.0, 0.0] },
-          { n: "리벳", p: [-83.7, 10.0, -1.7], r: [0.0, 0.0, -90.0], seated: true, noGuide: true, openEnd: true },
-          { n: "리벳", p: [-83.7, 10.0, -21.7], r: [0.0, 0.0, -90.0], seated: true, noGuide: true, openEnd: true },
+          { n: "리벳", p: [-83.7, 10.0, -1.7], r: [0.0, 0.0, -90.0], seated: true, noGuide: true, openEnd: true, moveGuide: true },
+          { n: "리벳", p: [-83.7, 10.0, -21.7], r: [0.0, 0.0, -90.0], seated: true, noGuide: true, openEnd: true, moveGuide: true },
           { n: "리벳", p: [-83.7, 31.0, -72.7], r: [0.0, 0.0, -90.0] },
           { n: "리벳", p: [-83.7, 24.0, -65.7], r: [0.0, 0.0, -90.0] },
           { n: "2단블록", p: [-77.7, 27.464, -69.164], r: [0.0, -45.0, -90.0], recv: true, dir: [1.0, 0.0, 0.0], marks: [[-79.2, 31.0, -72.7], [-79.2, 24.0, -65.7]], hover: 40 },
         ] },
-        { note: "[교재 16] 14번 상자 양 끝 블록 옆 구멍(칸1 블록·칸5 블록의 h1·h3)에 15번 팔 둘의 긴 팔 끝 리벳이 옆으로 들어가게 팔을 붙여요(13~16번은 두 벌 만들기).\n━ 작업 점검 ━\n☑ 책 그림 격자(수평선·회전·격자 점) 만듦\n☑ 읽기 표(면·링·부품) 적음\n☑ 읽기 표의 부품 = 모델의 부품 ()\n☑ 카메라 방향 파악(가까운 쪽·화면 오른쪽·위가 로봇의 어느 쪽인지 읽기 표 '방향') (눈으로)\n☑ 쓴 부품 합계 ≤ 교재 LIST\n☑ 부품 방향·제자리 판정(읽기 표 '부품방향')\n☑ 앞·뒤 번호 그림·완성 사진(00)과 같이 읽음(읽기 표 '대조')\n☑ 화면 확대 확인 (비교 증거 있음) (눈으로)\n☑ 책 그림과 나란히 비교(칸 수 대조) (비교 증거 있음) (눈으로)\n☑ 카메라 책과 대조 (비교 증거 있음) (눈으로)\n☑ 카메라가 짐작(guess)이 아님 — 책 그림에서 가까운 쪽·오른쪽·위를 읽고 정한 값(camSrc eye) (비교 증거 있음) (눈으로)\n▣ 사용 부품: 없음(합치는 단계) (2벌)", cam: {"theta": 2.066, "phi": 0.913}, camSrc: "eye", slot: 3, hideMade: {"1": "1~12번(창고 1·2)", "2": "1~12번(창고 1·2)", "3": "1~12번(창고 1·2)", "4": "1~12번(창고 1·2)", "5": "1~12번(창고 1·2)", "6": "1~12번(창고 1·2)", "7": "1~12번(창고 1·2)", "8": "1~12번(창고 1·2)", "9": "1~12번(창고 1·2)", "10": "1~12번(창고 1·2)", "11": "1~12번(창고 1·2)", "12": "1~12번(창고 1·2)"}, moveMade: {"15:0": {"p": [28.8, 21.5, -38.2], "r": [90.0, -90.0, 0.0], "dir": [1.0, 0.0, 0.0], "hover": 30, "moveGroup": "mm16arm1"}, "15:1": {"p": [26.3, 10.0, -1.7], "r": [0.0, 0.0, -90.0], "dir": [1.0, 0.0, 0.0], "hover": 30, "moveGroup": "mm16arm1", "marks": [[26.3, 10.0, -1.6999999999999993]]}, "15:2": {"p": [26.3, 10.0, -21.7], "r": [0.0, 0.0, -90.0], "dir": [1.0, 0.0, 0.0], "hover": 30, "moveGroup": "mm16arm1", "marks": [[26.3, 10.0, -21.7]]}, "15:3": {"p": [26.3, 31.0, -72.7], "r": [0.0, 0.0, -90.0], "dir": [1.0, 0.0, 0.0], "hover": 30, "moveGroup": "mm16arm1"}, "15:4": {"p": [26.3, 24.0, -65.7], "r": [0.0, 0.0, -90.0], "dir": [1.0, 0.0, 0.0], "hover": 30, "moveGroup": "mm16arm1"}, "15:5": {"p": [20.3, 27.464, -69.164], "r": [180.0, -45.0, -90.0], "dir": [1.0, 0.0, 0.0], "hover": 30, "moveGroup": "mm16arm1"}, "15:6": {"p": [-26.2, 21.5, -38.2], "r": [90.0, -90.0, 0.0], "dir": [-1.0, 0.0, 0.0], "hover": 30, "moveGroup": "mm16arm-1"}, "15:7": {"p": [-23.7, 10.0, -1.7], "r": [0.0, 0.0, -90.0], "dir": [-1.0, 0.0, 0.0], "hover": 30, "moveGroup": "mm16arm-1", "marks": [[-23.7, 10.0, -1.6999999999999993]]}, "15:8": {"p": [-23.7, 10.0, -21.7], "r": [0.0, 0.0, -90.0], "dir": [-1.0, 0.0, 0.0], "hover": 30, "moveGroup": "mm16arm-1", "marks": [[-23.7, 10.0, -21.7]]}, "15:9": {"p": [-23.7, 31.0, -72.7], "r": [0.0, 0.0, -90.0], "dir": [-1.0, 0.0, 0.0], "hover": 30, "moveGroup": "mm16arm-1"}, "15:10": {"p": [-23.7, 24.0, -65.7], "r": [0.0, 0.0, -90.0], "dir": [-1.0, 0.0, 0.0], "hover": 30, "moveGroup": "mm16arm-1"}, "15:11": {"p": [-17.7, 27.464, -69.164], "r": [0.0, -45.0, -90.0], "dir": [-1.0, 0.0, 0.0], "hover": 30, "moveGroup": "mm16arm-1"}}, parts: [
+        { note: "[교재 16] 14번 상자 양 끝 블록 옆 구멍(칸1 블록·칸5 블록의 h1·h3)에 15번 팔 둘의 긴 팔 끝 리벳이 옆으로 들어가게 팔을 붙여요(13~16번은 두 벌 만들기).\n━ 작업 점검 ━\n☑ 책 그림 격자(수평선·회전·격자 점) 만듦\n☑ 읽기 표(면·링·부품) 적음\n☑ 읽기 표의 부품 = 모델의 부품 ()\n☑ 카메라 방향 파악(가까운 쪽·화면 오른쪽·위가 로봇의 어느 쪽인지 읽기 표 '방향') (눈으로)\n☑ 쓴 부품 합계 ≤ 교재 LIST\n☑ 부품 방향·제자리 판정(읽기 표 '부품방향')\n☑ 앞·뒤 번호 그림·완성 사진(00)과 같이 읽음(읽기 표 '대조')\n☐ 화면 확대 확인 (눈으로)\n☐ 책 그림과 나란히 비교(칸 수 대조) (눈으로)\n☐ 카메라 책과 대조 (눈으로)\n☐ 카메라가 짐작(guess)이 아님 — 책 그림에서 가까운 쪽·오른쪽·위를 읽고 정한 값(camSrc eye) (눈으로)\n▣ 사용 부품: 없음(합치는 단계) (2벌)", cam: {"theta": 2.066, "phi": 0.913}, camSrc: "eye", slot: 3, hideMade: {"1": "1~12번(창고 1·2)", "2": "1~12번(창고 1·2)", "3": "1~12번(창고 1·2)", "4": "1~12번(창고 1·2)", "5": "1~12번(창고 1·2)", "6": "1~12번(창고 1·2)", "7": "1~12번(창고 1·2)", "8": "1~12번(창고 1·2)", "9": "1~12번(창고 1·2)", "10": "1~12번(창고 1·2)", "11": "1~12번(창고 1·2)", "12": "1~12번(창고 1·2)"}, moveMade: {"15:0": {"p": [28.8, 21.5, -38.2], "r": [90.0, -90.0, 0.0], "dir": [1.0, 0.0, 0.0], "hover": 30, "moveGroup": "mm16arm1"}, "15:1": {"p": [26.3, 10.0, -1.7], "r": [0.0, 0.0, -90.0], "dir": [1.0, 0.0, 0.0], "hover": 30, "moveGroup": "mm16arm1", "marks": [[26.3, 10.0, -1.6999999999999993]]}, "15:2": {"p": [26.3, 10.0, -21.7], "r": [0.0, 0.0, -90.0], "dir": [1.0, 0.0, 0.0], "hover": 30, "moveGroup": "mm16arm1", "marks": [[26.3, 10.0, -21.7]]}, "15:3": {"p": [26.3, 31.0, -72.7], "r": [0.0, 0.0, -90.0], "dir": [1.0, 0.0, 0.0], "hover": 30, "moveGroup": "mm16arm1"}, "15:4": {"p": [26.3, 24.0, -65.7], "r": [0.0, 0.0, -90.0], "dir": [1.0, 0.0, 0.0], "hover": 30, "moveGroup": "mm16arm1"}, "15:5": {"p": [20.3, 27.464, -69.164], "r": [180.0, -45.0, -90.0], "dir": [1.0, 0.0, 0.0], "hover": 30, "moveGroup": "mm16arm1"}, "15:6": {"p": [-26.2, 21.5, -38.2], "r": [90.0, -90.0, 0.0], "dir": [-1.0, 0.0, 0.0], "hover": 30, "moveGroup": "mm16arm-1"}, "15:7": {"p": [-23.7, 10.0, -1.7], "r": [0.0, 0.0, -90.0], "dir": [-1.0, 0.0, 0.0], "hover": 30, "moveGroup": "mm16arm-1", "marks": [[-23.7, 10.0, -1.6999999999999993]]}, "15:8": {"p": [-23.7, 10.0, -21.7], "r": [0.0, 0.0, -90.0], "dir": [-1.0, 0.0, 0.0], "hover": 30, "moveGroup": "mm16arm-1", "marks": [[-23.7, 10.0, -21.7]]}, "15:9": {"p": [-23.7, 31.0, -72.7], "r": [0.0, 0.0, -90.0], "dir": [-1.0, 0.0, 0.0], "hover": 30, "moveGroup": "mm16arm-1"}, "15:10": {"p": [-23.7, 24.0, -65.7], "r": [0.0, 0.0, -90.0], "dir": [-1.0, 0.0, 0.0], "hover": 30, "moveGroup": "mm16arm-1"}, "15:11": {"p": [-17.7, 27.464, -69.164], "r": [0.0, -45.0, -90.0], "dir": [-1.0, 0.0, 0.0], "hover": 30, "moveGroup": "mm16arm-1"}}, parts: [
+          { n: "25프레임", p: [1.3, 2.5, 293.3], r: [0.0, 0.0, 0.0], hideAt: [16, 17], store: "13~16번 둘째 벌", slot: 4, noGuide: true, copyOf: "13:0" },
+          { n: "15프레임", p: [1.3, 2.5, 278.3], r: [0.0, 0.0, 0.0], hideAt: [16, 17], store: "13~16번 둘째 벌", slot: 4, noGuide: true, copyOf: "13:1" },
+          { n: "3단블록", p: [-18.7, 10.0, 288.3], r: [-90.0, -90.0, 0.0], hideAt: [16, 17], store: "13~16번 둘째 벌", slot: 4, noGuide: true, copyOf: "13:2" },
+          { n: "3단블록", p: [21.3, 10.0, 288.3], r: [-90.0, -90.0, 0.0], hideAt: [16, 17], store: "13~16번 둘째 벌", slot: 4, noGuide: true, copyOf: "13:3" },
+          { n: "25프레임", p: [1.3, 17.5, 293.3], r: [0.0, 0.0, 0.0], hideAt: [16, 17], store: "13~16번 둘째 벌", slot: 4, noGuide: true, copyOf: "14:0" },
+          { n: "15프레임", p: [1.3, 17.5, 278.3], r: [0.0, 0.0, 0.0], hideAt: [16, 17], store: "13~16번 둘째 벌", slot: 4, noGuide: true, copyOf: "14:1" },
+          { n: "135도 프레임", p: [28.8, 21.5, 261.8], r: [90.0, -90.0, 0.0], hideAt: [16, 17], store: "13~16번 둘째 벌", slot: 4, noGuide: true, copyOf: "15:0" },
+          { n: "리벳", p: [26.3, 10.0, 298.3], r: [0.0, 0.0, -90.0], hideAt: [16, 17], store: "13~16번 둘째 벌", slot: 4, noGuide: true, copyOf: "15:1" },
+          { n: "리벳", p: [26.3, 10.0, 278.3], r: [0.0, 0.0, -90.0], hideAt: [16, 17], store: "13~16번 둘째 벌", slot: 4, noGuide: true, copyOf: "15:2" },
+          { n: "리벳", p: [26.3, 31.0, 227.3], r: [0.0, 0.0, -90.0], hideAt: [16, 17], store: "13~16번 둘째 벌", slot: 4, noGuide: true, copyOf: "15:3" },
+          { n: "리벳", p: [26.3, 24.0, 234.3], r: [0.0, 0.0, -90.0], hideAt: [16, 17], store: "13~16번 둘째 벌", slot: 4, noGuide: true, copyOf: "15:4" },
+          { n: "2단블록", p: [20.3, 27.464, 230.836], r: [180.0, -45.0, -90.0], hideAt: [16, 17], store: "13~16번 둘째 벌", slot: 4, noGuide: true, copyOf: "15:5" },
+          { n: "135도 프레임", p: [-26.2, 21.5, 261.8], r: [90.0, -90.0, 0.0], hideAt: [16, 17], store: "13~16번 둘째 벌", slot: 4, noGuide: true, copyOf: "15:6" },
+          { n: "리벳", p: [-23.7, 10.0, 298.3], r: [0.0, 0.0, -90.0], hideAt: [16, 17], store: "13~16번 둘째 벌", slot: 4, noGuide: true, copyOf: "15:7" },
+          { n: "리벳", p: [-23.7, 10.0, 278.3], r: [0.0, 0.0, -90.0], hideAt: [16, 17], store: "13~16번 둘째 벌", slot: 4, noGuide: true, copyOf: "15:8" },
+          { n: "리벳", p: [-23.7, 31.0, 227.3], r: [0.0, 0.0, -90.0], hideAt: [16, 17], store: "13~16번 둘째 벌", slot: 4, noGuide: true, copyOf: "15:9" },
+          { n: "리벳", p: [-23.7, 24.0, 234.3], r: [0.0, 0.0, -90.0], hideAt: [16, 17], store: "13~16번 둘째 벌", slot: 4, noGuide: true, copyOf: "15:10" },
+          { n: "2단블록", p: [-17.7, 27.464, 230.836], r: [0.0, -45.0, -90.0], hideAt: [16, 17], store: "13~16번 둘째 벌", slot: 4, noGuide: true, copyOf: "15:11" },
         ] },
         { note: "[교재 17] (작성 전) 교재 84쪽 — 번호만 등록한 뼈대. 번호 작업 때 채운다.\n▣ 사용 부품: 없음(합치는 단계)", cam: {"theta": -0.79, "phi": 0.95}, camSrc: "guess", noPart: true, slot: 2, history: "창고 3의 팔(16번)을 가져와 창고 2의 바닥판(12번)과 합쳐요 — 번호표 '12 + 16'", parts: [
         ] },

diff --git a/public/design-assembly.js b/public/design-assembly.js
@@ -1067,10 +1067,24 @@
       box.appendChild(fig);
     });
     ov.appendChild(box); document.body.appendChild(ov);
+    // 제목 줄을 잡고 끌면 창이 움직인다(3D 화면과 나란히 비교할 때) — 닫기 버튼은 끌기에서 뺀다
+    hd.style.cursor = 'move'; hd.style.touchAction = 'none'; hd.style.userSelect = 'none'; box.style.position = 'relative';
+    let dragX = 0, dragY = 0, drag = null, moved = false;
+    hd.addEventListener('pointerdown', (e) => {
+      if (e.target === x || e.button > 0) return;
+      drag = { sx: e.clientX, sy: e.clientY, ox: dragX, oy: dragY }; moved = false; hd.setPointerCapture(e.pointerId); e.preventDefault();
+    });
+    hd.addEventListener('pointermove', (e) => {
+      if (!drag) return;
+      const dx = e.clientX - drag.sx, dy = e.clientY - drag.sy; if (Math.abs(dx) + Math.abs(dy) > 3) moved = true;
+      dragX = drag.ox + dx; dragY = drag.oy + dy; box.style.transform = 'translate(' + dragX + 'px,' + dragY + 'px)';
+    });
+    const endDrag = (e) => { if (!drag) return; drag = null; try { hd.releasePointerCapture(e.pointerId); } catch (_) { /* 이미 놓음 */ } setTimeout(() => { moved = false; }, 0); };
+    hd.addEventListener('pointerup', endDrag); hd.addEventListener('pointercancel', endDrag);
     const closeIt = () => { ov.remove(); document.removeEventListener('keydown', onKey); };
     const onKey = (e) => { if (e.key === 'Escape') closeIt(); };
     document.addEventListener('keydown', onKey);
-    x.addEventListener('click', closeIt); ov.addEventListener('click', (e) => { if (e.target === ov) closeIt(); });
+    x.addEventListener('click', closeIt); ov.addEventListener('click', (e) => { if (e.target === ov && !moved) closeIt(); });
   }
   async function showRefs(steps, title) {
     const b = bridge(); if (!b || !b.refStore || !def) return;

diff --git a/scripts/assembly-tools/viking.py b/scripts/assembly-tools/viking.py
@@ -311,7 +311,7 @@ for _sg, _nm in ((1, "가까운 팔(+X 끝)"), (-1, "먼 팔(−X 끝)")):
     _lr = []
     for _h in ("h9", "h7"):
         _p = np.array(_f.hole(_h)["pos"], float); _lr.append(s15.place("리벳", _Rr, (_xf + _off[0], _p[1], _p[2])))
-    for _q in _lr: _q.extra["seated"] = True; _q.extra["noGuide"] = True; _q.extra["openEnd"] = True
+    for _q in _lr: _q.extra["seated"] = True; _q.extra["noGuide"] = True; _q.extra["openEnd"] = True; _q.extra["moveGuide"] = True   # moveGuide: 16번에서 팔이 옮겨 붙을 때 책처럼 리벳 끝→블록 구멍 화살표를 그린다(안 달면 seated 라서 링만 칠하고 화살표 0개 — 2026-10-21 화면에서 확인)
     _sr = []
     for _h in ("h1", "h2"):
         _p = np.array(_f.hole(_h)["pos"], float); _sr.append(s15.place("리벳", _Rr, (_xf + _off[0], _p[1], _p[2])))
@@ -338,6 +338,12 @@ for _f16, _lr16, _sr16, _b16, _sg16 in ARMS:
     _g16 = A.group("팔(15번)", [_f16] + list(_lr16) + list(_sr16) + [_b16])
     s16.move_made(_g16, np.eye(3), pivot=(0.0, 0.0, 0.0), shift=(-60.0 * _sg16, 0.0, 0.0), dir=[_sg16, 0, 0], hover=30, group="mm16arm%d" % _sg16, marks=_mk16)
 A.steps[15].cam = (2.066, 0.913, False, None, None, None); A.steps[15].camSrc = "eye"   # 책 16번 상자 7점 PnP 3.5px(fov 28)
+# 13~16번 "2개 만들기" 둘째 벌: 새로 만들지 않고 복사해 창고 4 에 보관한다(18번 "16+17" 에서 꺼낸다). 6~9번과 같은 방법 — 16번에서 옮겨진 팔은 _base(처음 놓은 자세)가 아니라 옮긴 뒤 자세로 복사한다.
+_g1316 = [_q for _q in A.parts if _q.step.index in (13, 14, 15)]
+_bases16 = {id(_q): _q._base for _q in _g1316}
+for _q in _g1316: _q._base = None
+_g1316c = s16.copy_to_slot(Group("13~16번 한 벌", _g1316), 4, "13~16번 둘째 벌", until=18)
+for _q in _g1316: _q._base = _bases16[id(_q)]
 
 import stepchecks; stepchecks.apply(A, "viking")   # 모든 번호를 만든 뒤에 돌려야 번호 설명 끝에 작업 점검 블록이 붙는다
 

diff --git a/scripts/assembly-tools/process/진행기록_viking.md b/scripts/assembly-tools/process/진행기록_viking.md
@@ -1,7 +1,7 @@
 # 바이킹(큐보 2권 9차시, cubo-2-viking) 진행 기록
 
 ## ★ 다음 세션 인계 (2026-10-21 — 이 절을 먼저 읽는다)
-**상태:** 1~16번 끝(15번 서 있는 팔로 다시 만듦, 16번 상자+팔)(비교 증거·6방향·증명 그림·번호 대조·DB 그림·via). **17번부터 시작.** 푸시·커밋 안 함. 개발서버는 3178(이미 떠 있음), 패널 로그인은 포트별이라 3178 에서 사용자가 로그인함.
+**상태:** 1~16번 끝(15번 서 있는 팔로 다시 만듦, 16번 상자+팔)(비교 증거·6방향·증명 그림·번호 대조·DB 그림·via). **17번부터 시작.** **(2026-10-21 새 PC 재점검)** 16번 화면에서 화살표가 0개(책은 4개)인 것을 찾아 15번 `_lr` 리벳에 `moveGuide` 를 달아 4개로 고침(seated+noGuide 리벳은 move 로 옮겨 붙을 때 moveGuide 가 없으면 링만 칠하고 화살표를 안 그린다 — 화면에서 `br.guides` 를 가로채 번호별 개수로 확인). 13~16번 둘째 벌은 `copy_to_slot`(창고 4, "13~16번 둘째 벌", until 18)으로 복사 끝(6~9번과 같은 방법, 복사 동안 `_base=None`). 15·16번 증거는 새 PC 에서 다시 기록(16번은 낡은 증거 항목을 백업 후 지우고 쓰기 뒤 새 화면으로 기록). 푸시·커밋 안 함. 개발서버는 3178(이미 떠 있음), 패널 로그인은 포트별이라 3178 에서 사용자가 로그인함.
 **10번(문틀을 몸통에 합침) 방법·결과:** 책에서 밝은 구멍 블롭(g>190)을 뽑아 문틀 62점(리벳 6·기둥 구멍 3줄×8·3줄×4·39프레임 3×7)을 모델 문틀 3D 에 대응, 열 단위(kmeans)로 묶어 cv2 PnP 여러 초깃값 → fov 44 평균 0.49px. 책 링 12개 ↔ 돌기 투영으로 띄움 35. 문틀 회전 R=[[0,−1,0],[−1,0,0],[0,0,−1]], shift (−40,80,−115)(돌기 x −70 막대 구멍·−60·−50 판 칸1~2, z −130·−110/−10·10 — 2단블록이 블록 사이). 세트 판 위 링 2개=판 구멍 h3_2·h4_2 ← 몸통 2단블록 위 돌기. 도구 스크래치: 임시 스크립트(doorpnp 등)는 세션 스크래치에만 있음(저장소에 없음).
 **11번:** 복사본(`_g69c`, 창고 3)을 R_SET9, shift (40,80,−305)(=10번 문을 몸통 가운데(x 0,z −60) 둘레 180° 돌린 자리, 보관 거리 300 반영), 띄움 35. 문 둘 120점 joint PnP 3.07px(앞 문 PnP 단독은 기둥 행 배정이 안 맞아 못 씀). ⚠ 칸 ±10mm 는 오차로 안 갈려 대칭 가정, 격자·카메라 rulecheck ⚠(근거 부족). 10번 몸통 격자 10_U·10_V 는 앵커 2곳씩 ⚠.
 **배운 것:** 판이 작고 어두우면 문틀 같은 밝은 구멍이 많은 부품으로 카메라를 풀고 몸통은 투영으로 대조한다. 평행이동 해는 구멍 무늬가 반복이라 오차로 안 갈리니 빌드 겹침 검사·링 위치·2단블록 돌기 맞물림(판 링 2개)으로 가린다. 화면 갱신: design-assemblies.js fetch+eval 후 차시 10→9 토글, 번호 클릭(전체 새로고침 안 함). DB 올리기: vk_tools stage N → refStore.save → public/_refs_tmp 삭제.
